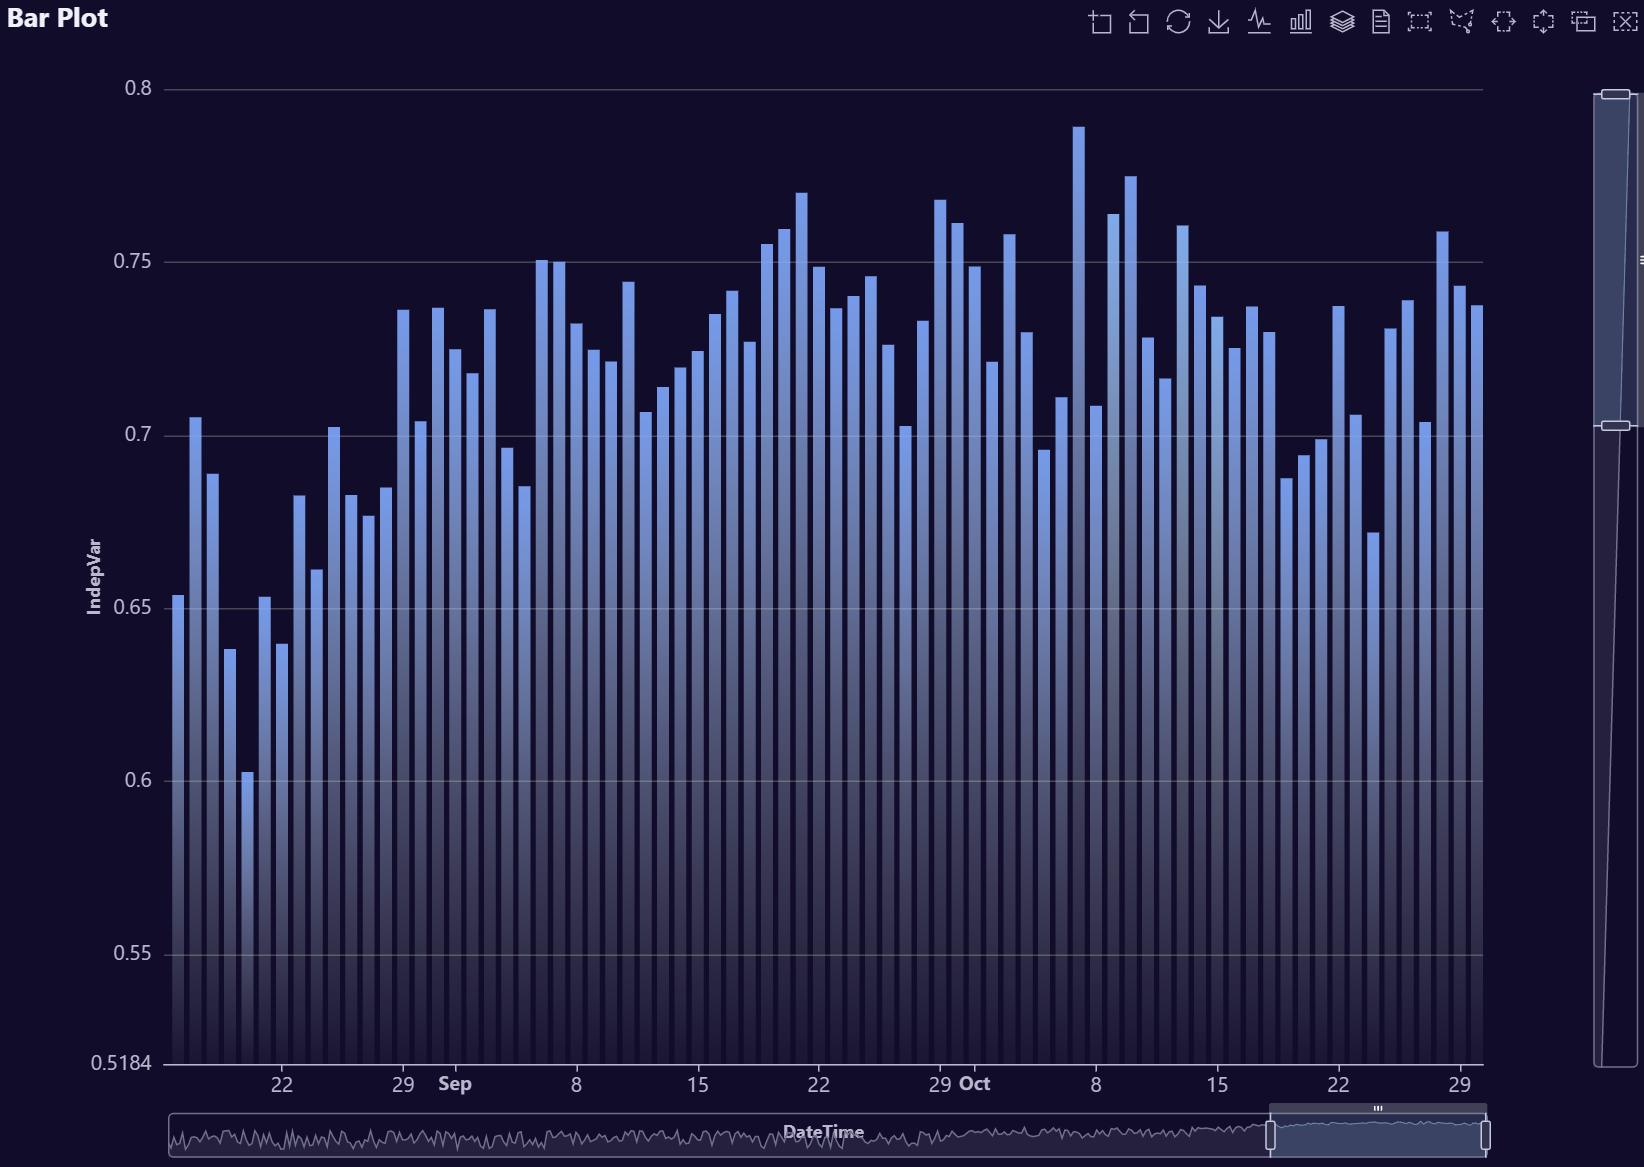
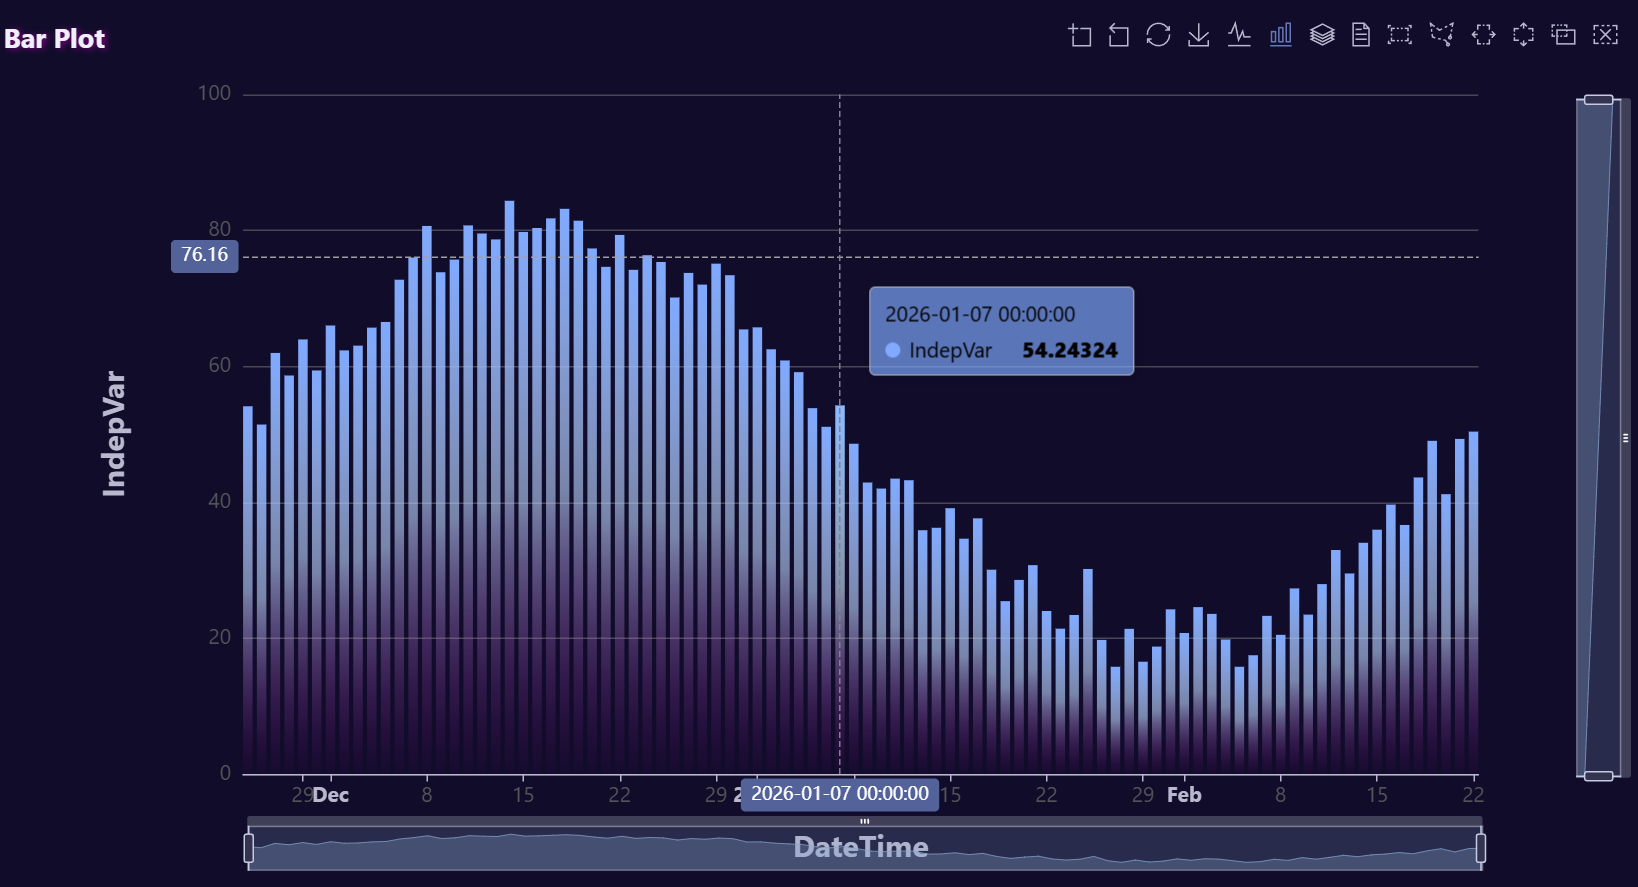
Updates

diff --git a/README.md b/README.md
@@ -219,20 +219,42 @@ AutoPlots::display_plots_grid(
 <details><summary>Bar Plot Examples</summary>
 
 ```r
-# Create fake data
-data <- AutoPlots::FakeDataGenerator(N = 1000)
-data <- data[, .(
-  IndepVar = mean(Independent_Variable8)
-), by = c("DateTime")]
+# Create example data (no FakeDataGenerator)
+data <- data.table::data.table(
+  DateTime = seq.Date(
+    from = Sys.Date() - 89,
+    to   = Sys.Date(),
+    by   = "day"
+  )
+)
+
+# Smooth wave + a bit of noise for a nice area shape
+data[, IndepVar := 50 +
+       30 * sin(seq(0, 2 * pi, length.out = .N)) +
+       stats::rnorm(.N, mean = 0, sd = 3)]
+
+# Optional: ensure values stay positive for cleaner visuals
+data[IndepVar < 0, IndepVar := 0]
 
 # Build plot
 AutoPlots::Bar(
   dt = data,
   XVar = "DateTime",
   YVar = "IndepVar",
-  backgroundStyle.color = c("#80AAFF","#BDD5FF","#CFCFCF"),
-  backgroundStyle.opacity = c(0.9,0.4,0.05),
-  legend.show = FALSE)
+  backgroundStyle.color = c("#80AAFF","#BDD5FF","#8B008B"),
+  backgroundStyle.opacity = c(1,0.6,0.05),
+  legend.show = FALSE,
+  title.textStyle.textShadowColor = "purple",
+  title.textStyle.textShadowBlur = 4,
+  title.textStyle.textShadowOffsetX = 2,
+  title.textStyle.textShadowOffsetY = 1,
+  yAxis.nameTextStyle.fontSize = 20,
+  yAxis.nameTextStyle.padding = 60,
+  xAxis.nameTextStyle.fontSize = 20,
+  tooltip.backgroundColor = "#80AAFFAA",
+  tooltip.textStyle.color = "black",
+  title.text = "Bar Plot"
+)
 ```
 
 <br>
